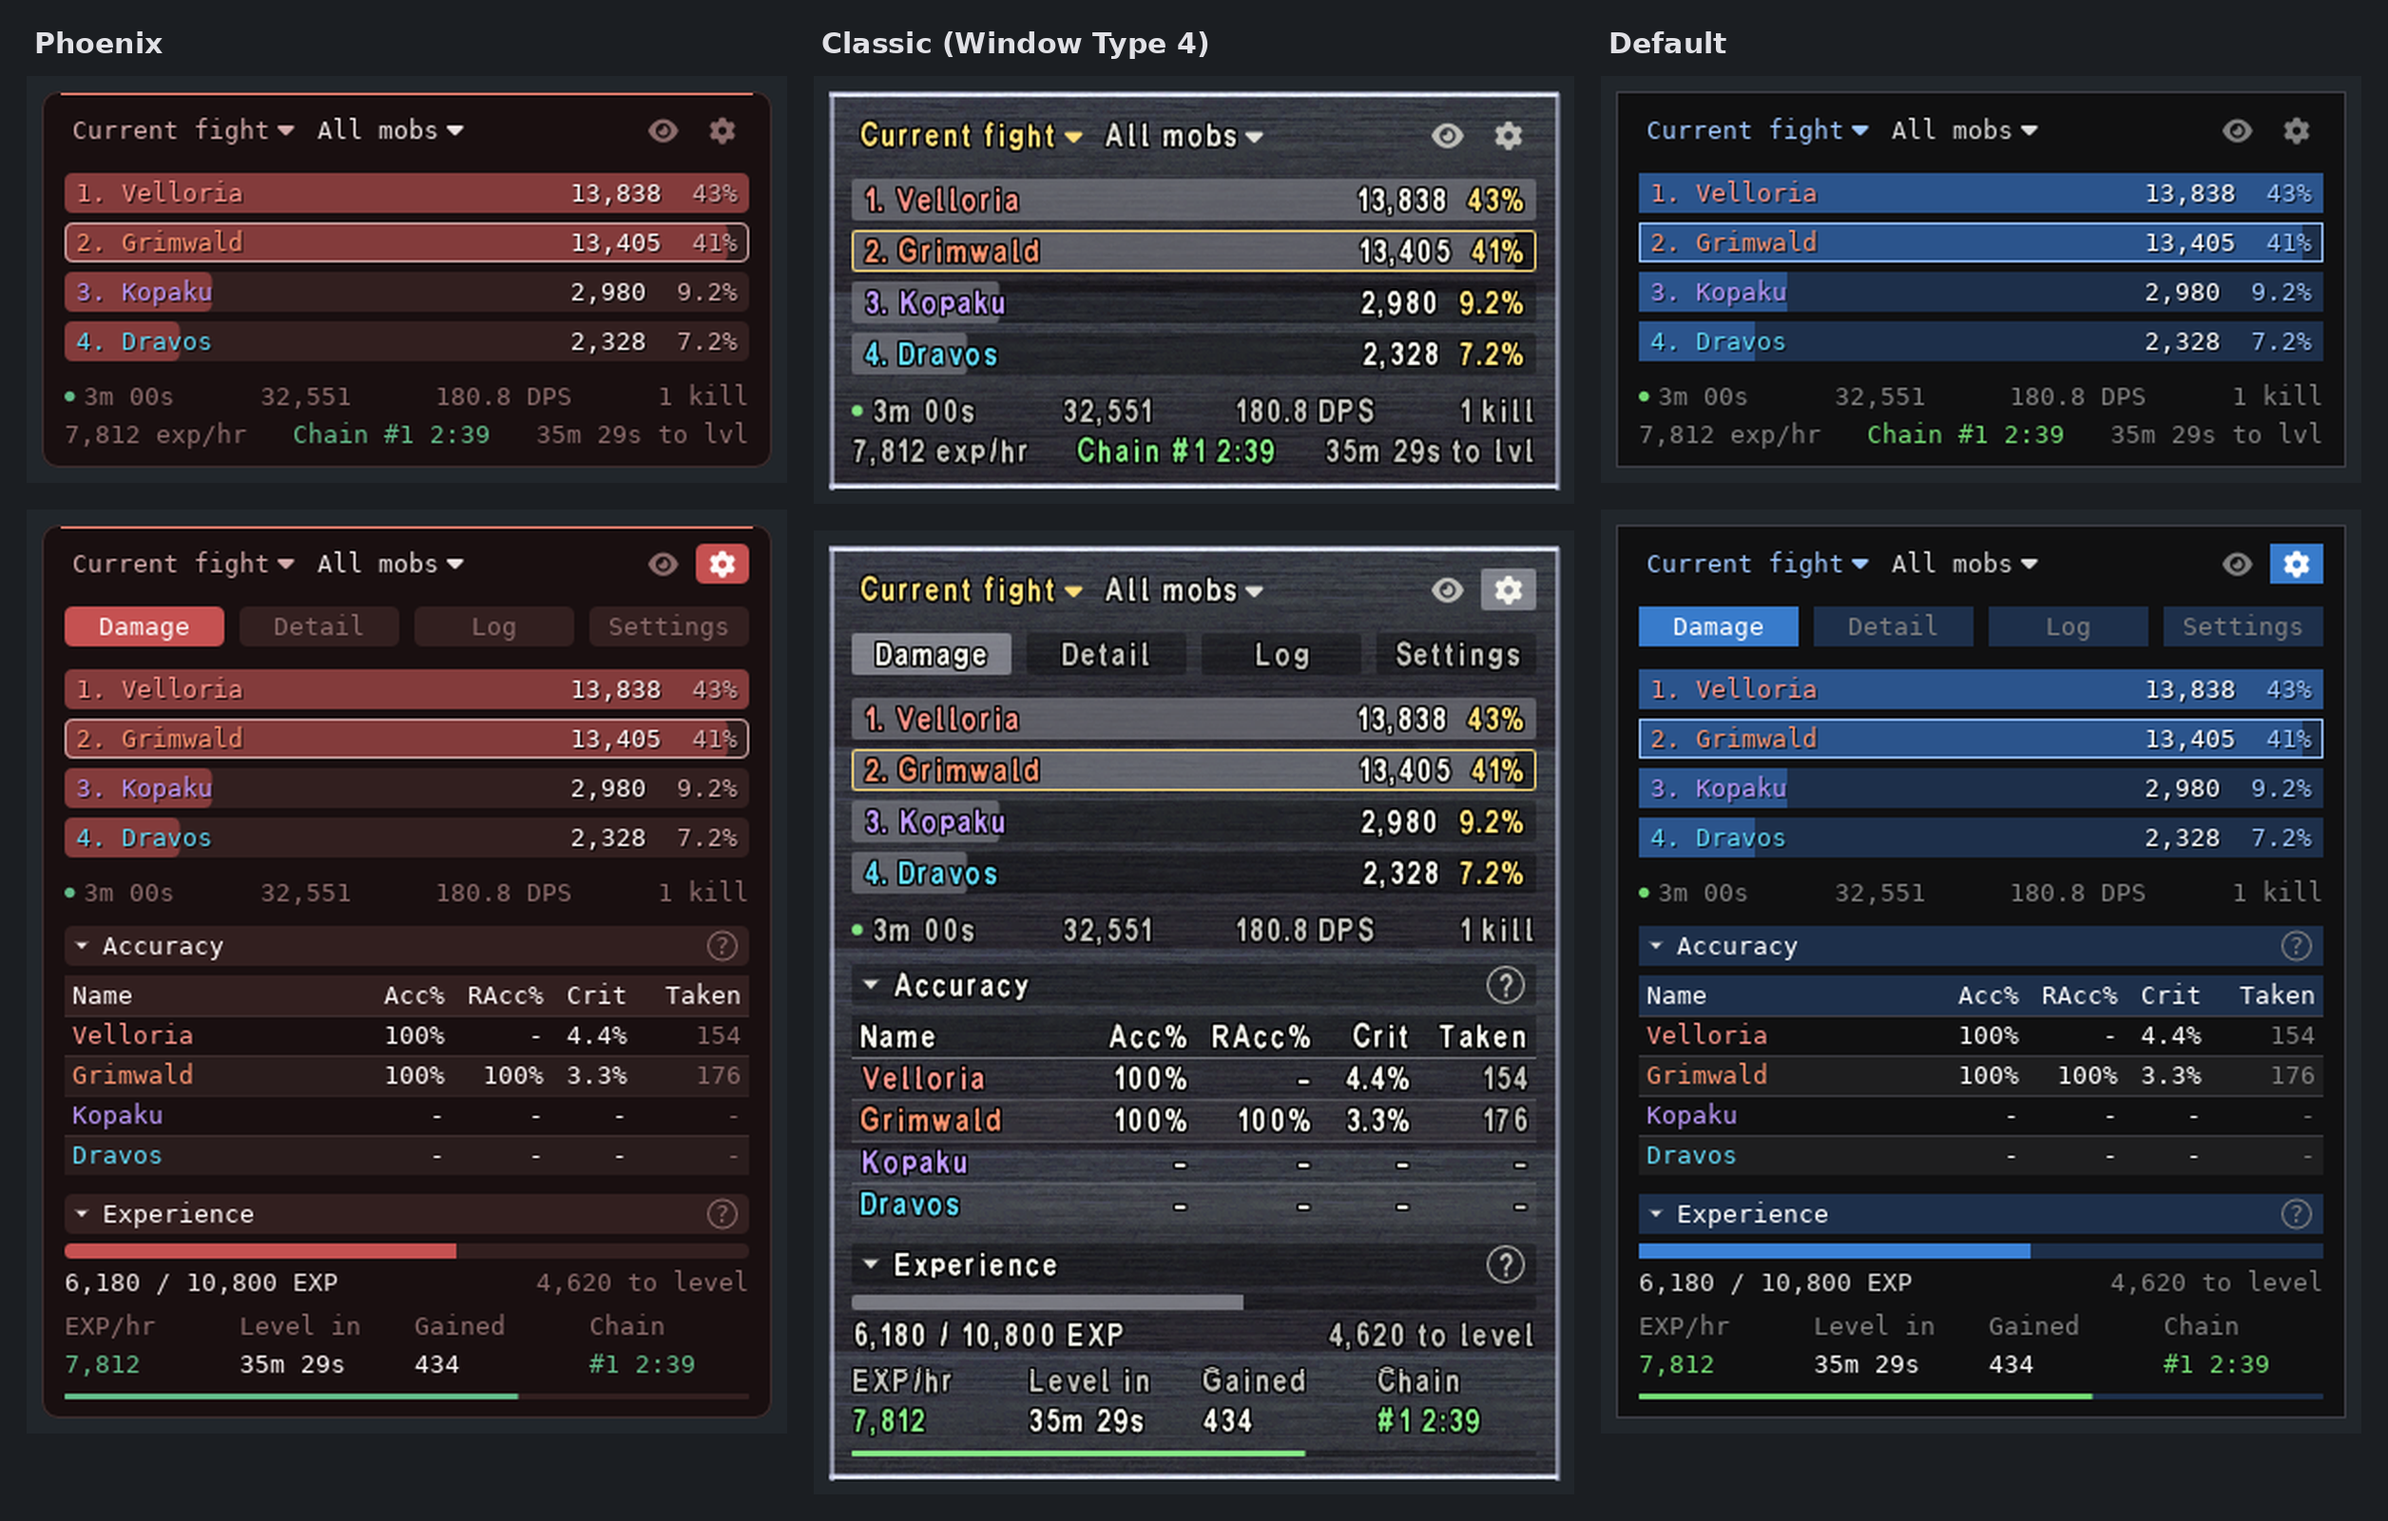
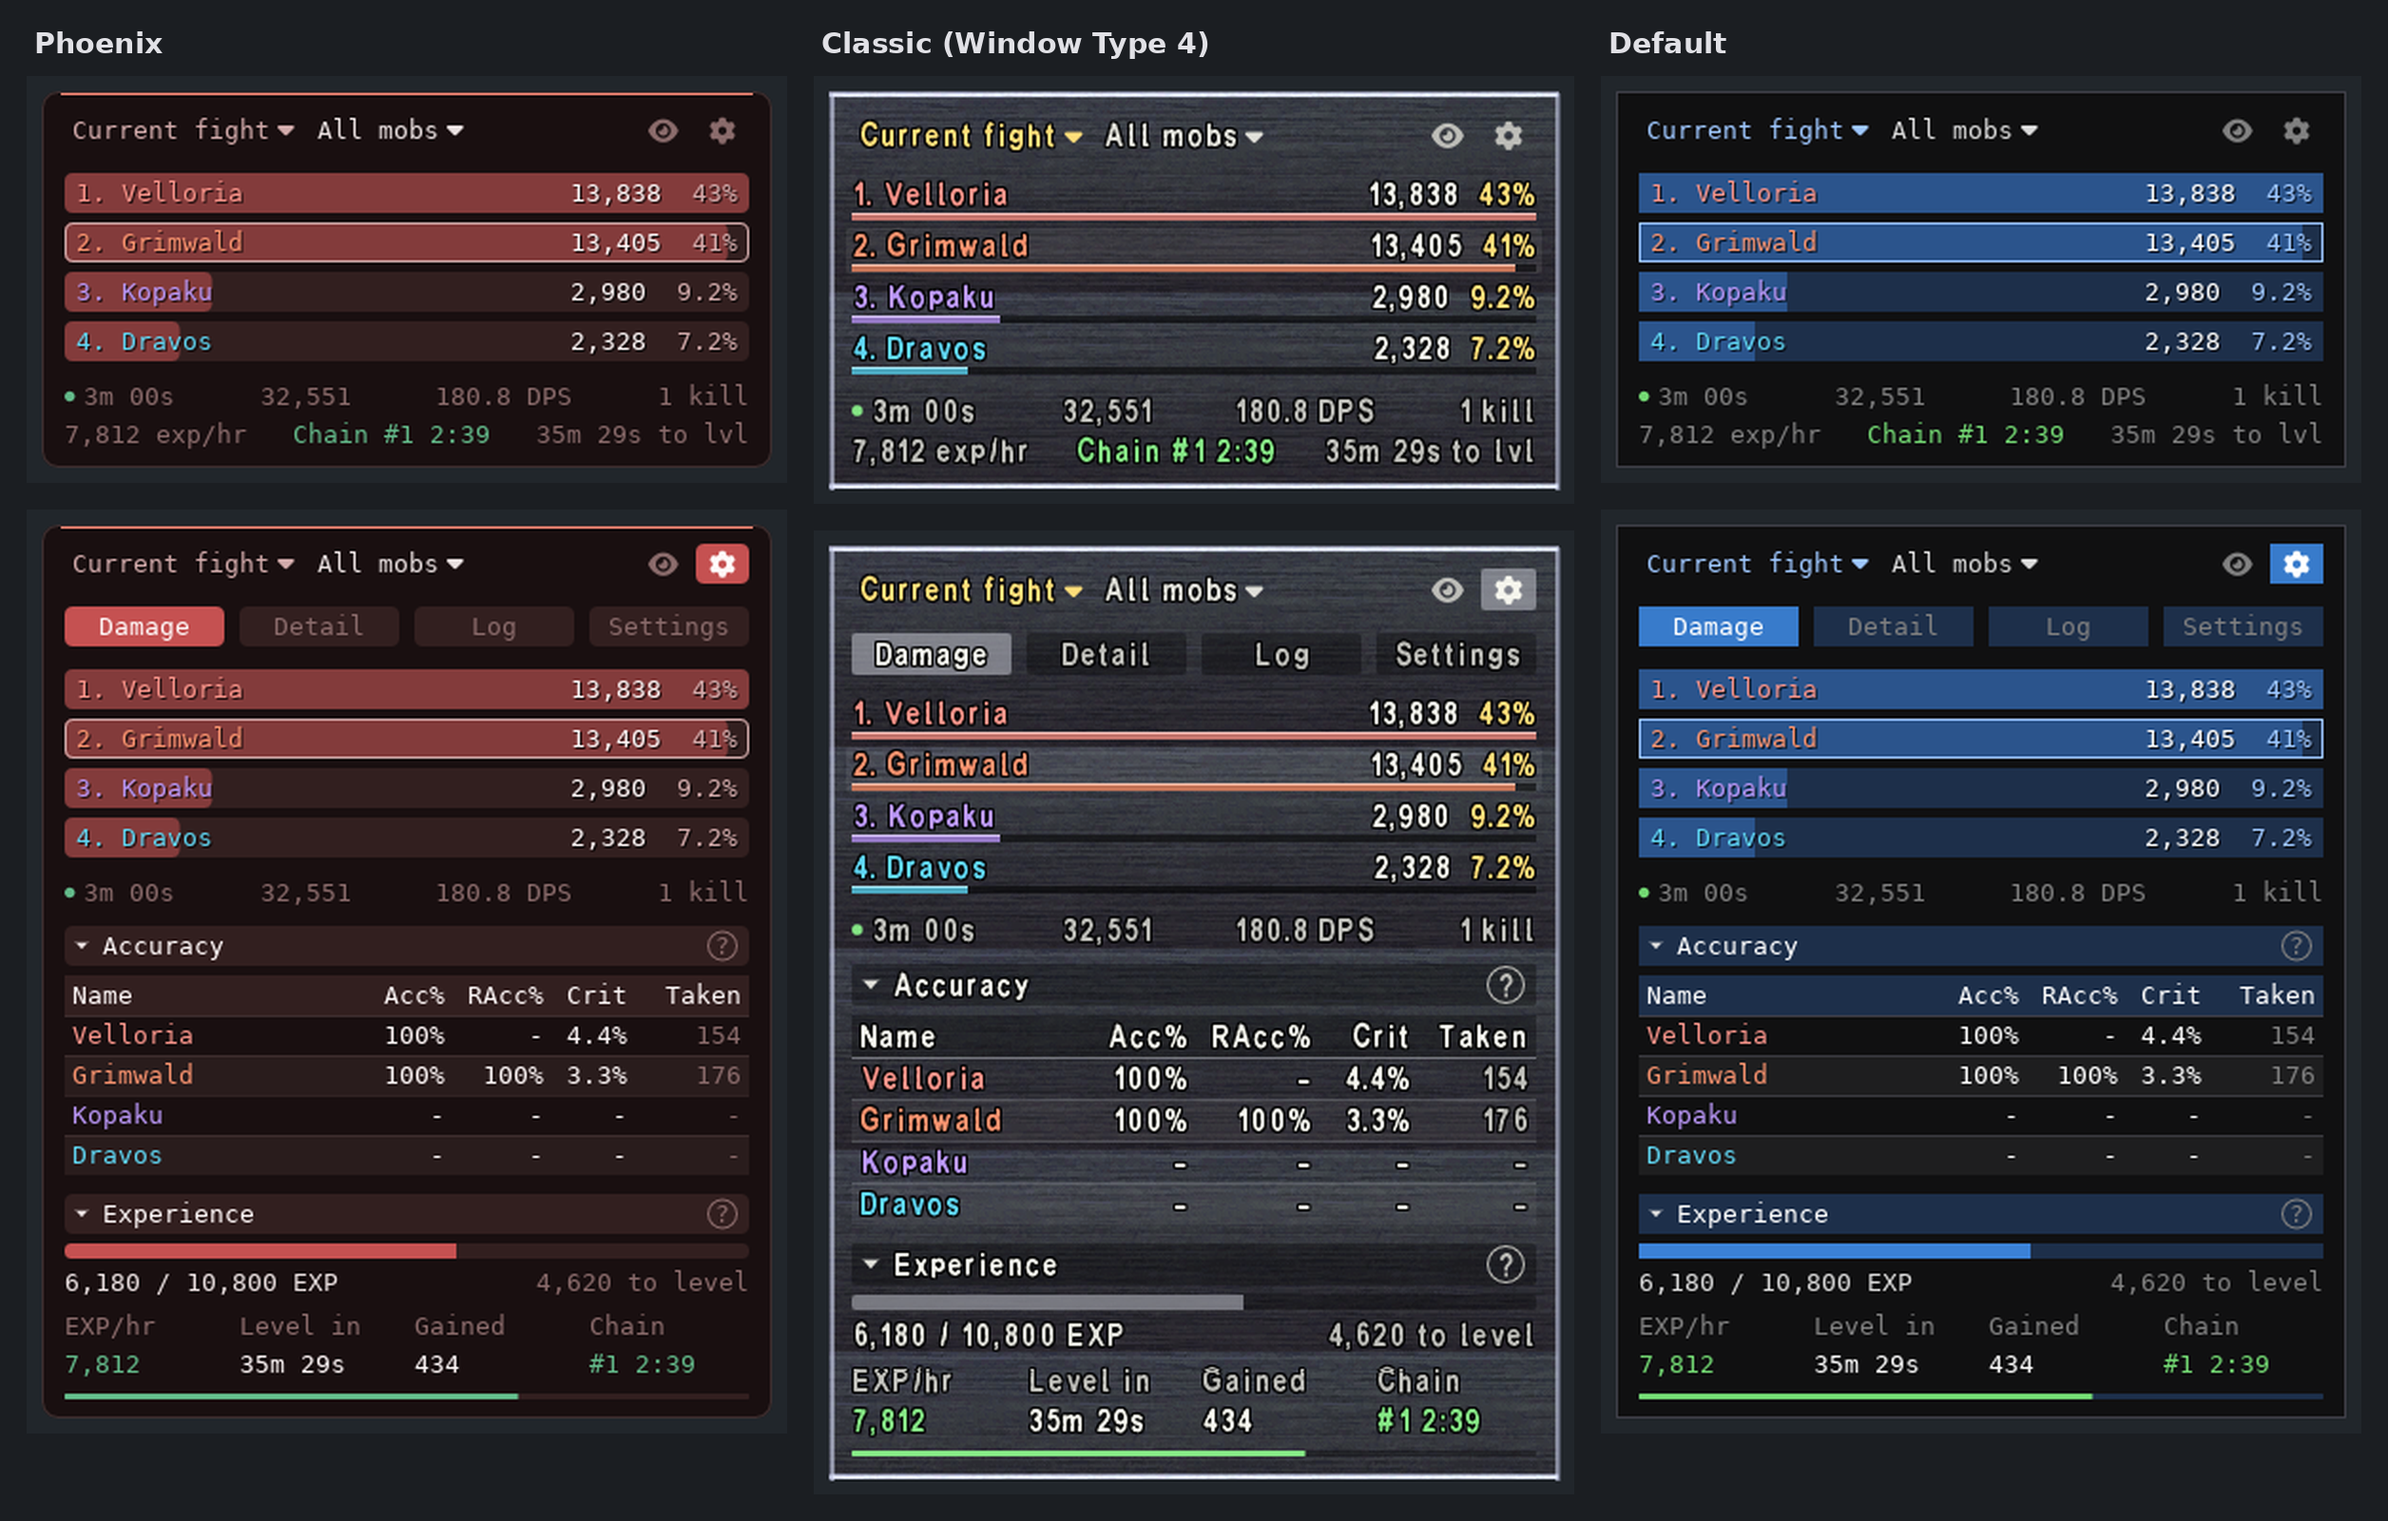
0.5.1: Classic rows drawn like the game's lists
Under the Classic skin, each meter row is text on the window art with a
thin gauge underneath in the player's job colour, instead of a filled bar
over the art. Your own row gets a faint band. Phoenix and Default keep
their bars. README skins picture and notes updated.

Claude-Session: https://claude.ai/code/session_01YDQhrZQTpXF3Cqvo7STXv1

Changed region(s): [[0.3416, 0.0938, 0.6521, 0.25], [0.3416, 0.4375, 0.6521, 0.5938]]

diff --git a/README.md b/README.md
@@ -46,7 +46,7 @@ If the window is too narrow for everything (a wide font, a small scale), the foo
 | Skin | Look |
 |---|---|
 | Phoenix | Dark red and ember. The starting skin. |
-| Classic | The game's own window art and font. |
+| Classic | The game's own window art and font, with rows drawn like the game's lists: text on the window and a thin gauge underneath. |
 | Default | Plain ImGui. |
 
 Classic reads the window art from your own game install (`ROM/0/14.DAT` to `21.DAT`) and follows Config > Windows > Shared > Window Type as you change it, or you can pin one type in Settings or with `/pxp wintype`. The picture above shows Window Type 4.
@@ -174,6 +174,8 @@ Or with LuaJIT: `luajit tests/run.lua`.
 **The chain timer shows what it can't know.** The client is told the chain number, not the mob's difficulty, so a plain kill might have started a chain or might not. The timer shows that window in grey rather than guessing, and turns coloured once the server confirms a chain.
 
 **The window stays small and steady.** The meter alone covers most of a fight, so everything else sits behind the gear. Footer figures update once a second and keep their place on the line, so a number ticking over doesn't shake the line, and each item has a priority so the least useful ones are left out before anything overlaps. Ashita's font, scale and players' names vary, and a fixed layout that fits one setup runs together on another.
+
+**Classic draws rows the way the game does.** The game never puts a filled bar behind text: its lists are text on the window art, and its gauges are thin strips. Filled bars over the art look out of place and make coloured names harder to read, so Classic shows each player's share as a thin gauge in their job colour under the name.
 
 **Skins only change the look.** Every skin fills the same palette, so the window is drawn by the same code in each. Classic reads its art and letters from your own install when it first needs them and falls back cleanly if it can't, so nothing from the game is shipped and a missing file never stops the meter.
 
